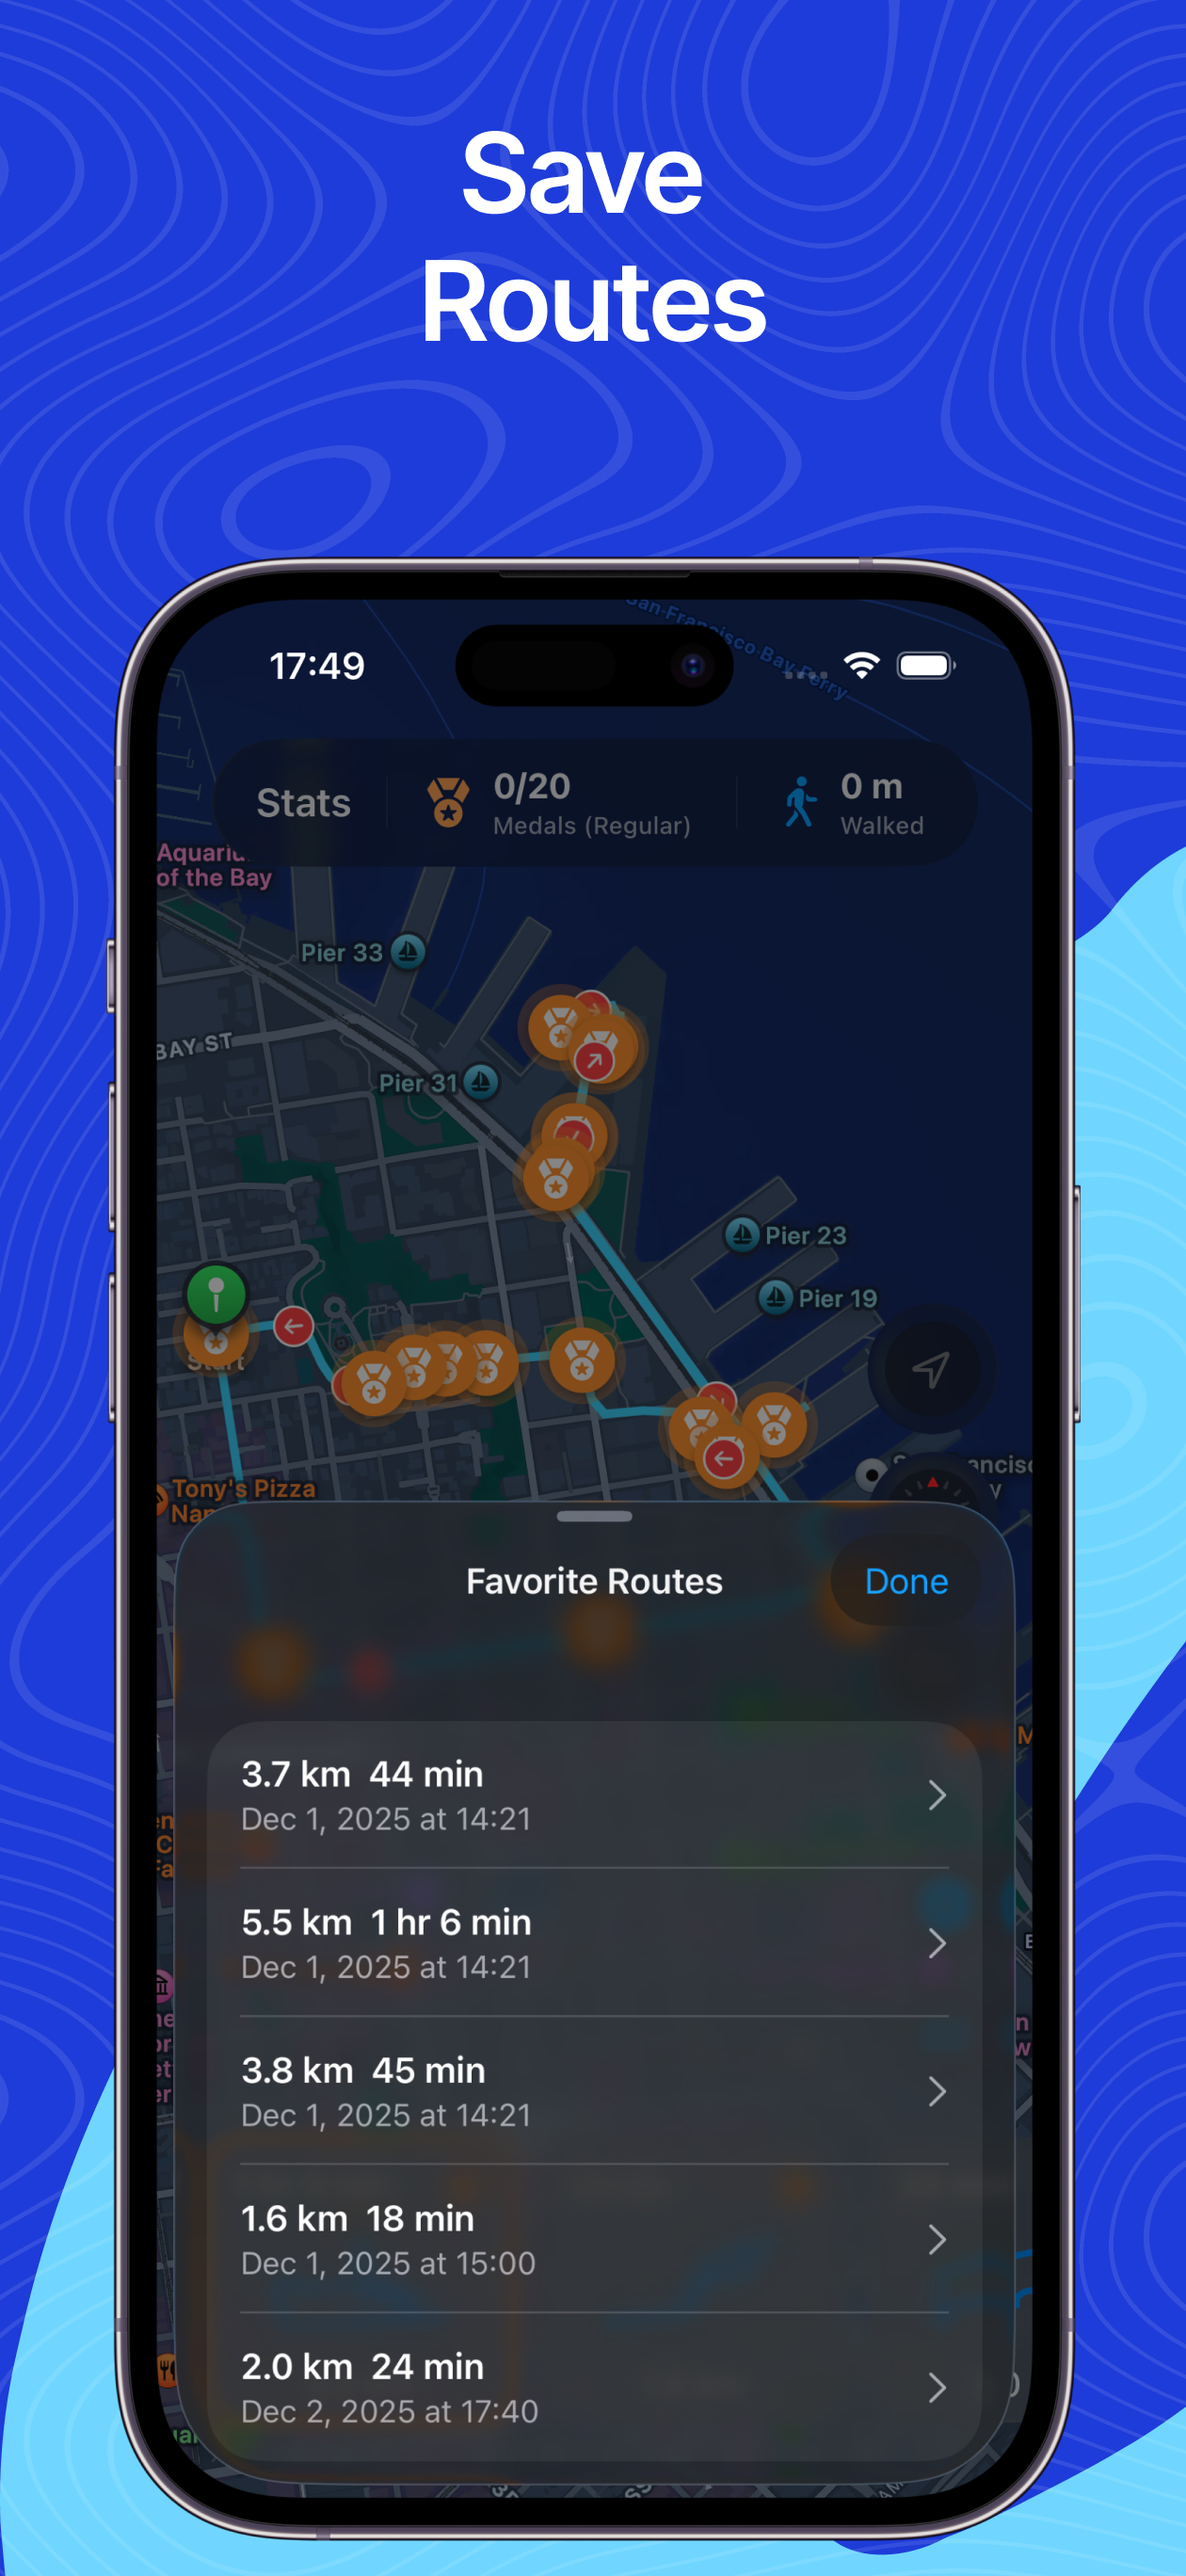
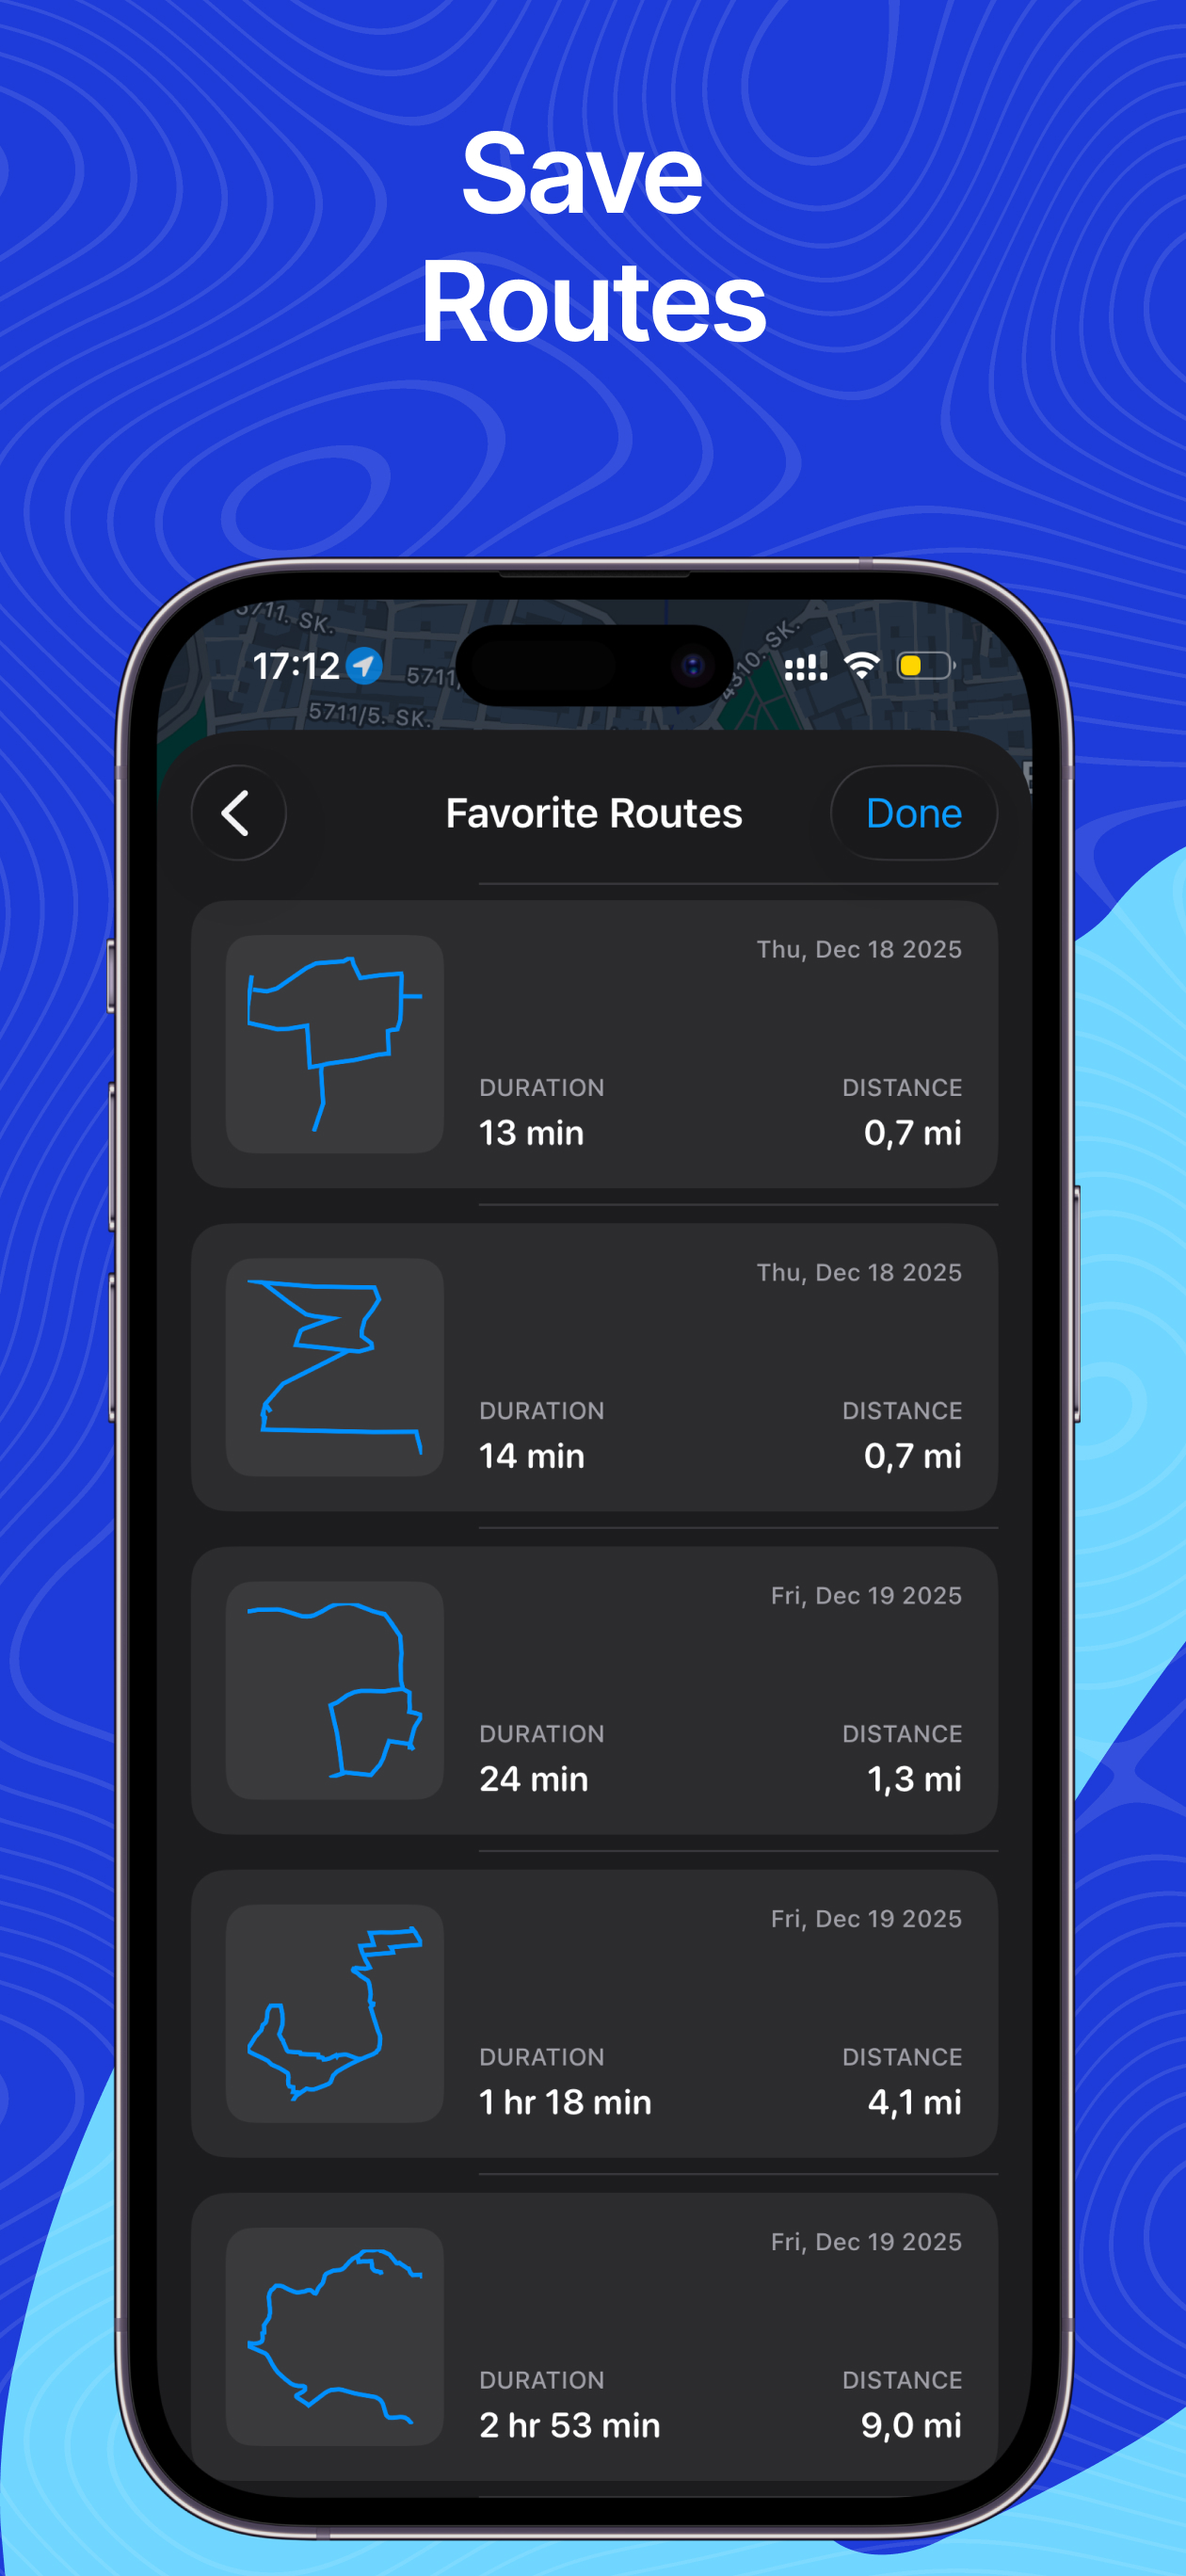
Add new screenshots for Walk Mate app, including Eighth, Ninth, and Tenth frames, to enhance visual content.

Changed region(s): [[0.1238, 0.2175, 0.8667, 0.9942], [0.8357, 0.8699, 0.8667, 0.932], [0.619, 0.9631, 0.65, 0.9942]]

diff --git a/apps/walkmate.html b/apps/walkmate.html
@@ -79,9 +79,12 @@
         <div class="shot"><img src="../assets/app-screenshots/walkmate/Second Frame.jpg" alt="Second screenshot" /></div>
         <div class="shot"><img src="../assets/app-screenshots/walkmate/Third Frame.jpg" alt="Third screenshot" /></div>
         <div class="shot"><img src="../assets/app-screenshots/walkmate/Fourth Frame.jpg" alt="Fourth screenshot" /></div>
+        <div class="shot"><img src="../assets/app-screenshots/walkmate/Eighth Frame.jpg" alt="Eighth screenshot" /></div>
         <div class="shot"><img src="../assets/app-screenshots/walkmate/Fifth Frame.jpg" alt="Fifth screenshot" /></div>
         <div class="shot"><img src="../assets/app-screenshots/walkmate/Sixth Frame.jpg" alt="Sixth screenshot" /></div>
         <div class="shot"><img src="../assets/app-screenshots/walkmate/Seventh Frame.jpg" alt="Seventh screenshot" /></div>
+        <div class="shot"><img src="../assets/app-screenshots/walkmate/Ninth Frame.jpg" alt="Ninth screenshot" /></div>
+        <div class="shot"><img src="../assets/app-screenshots/walkmate/Tenth Frame.jpg" alt="Tenth screenshot" /></div>
       </section>
     </div>
 
